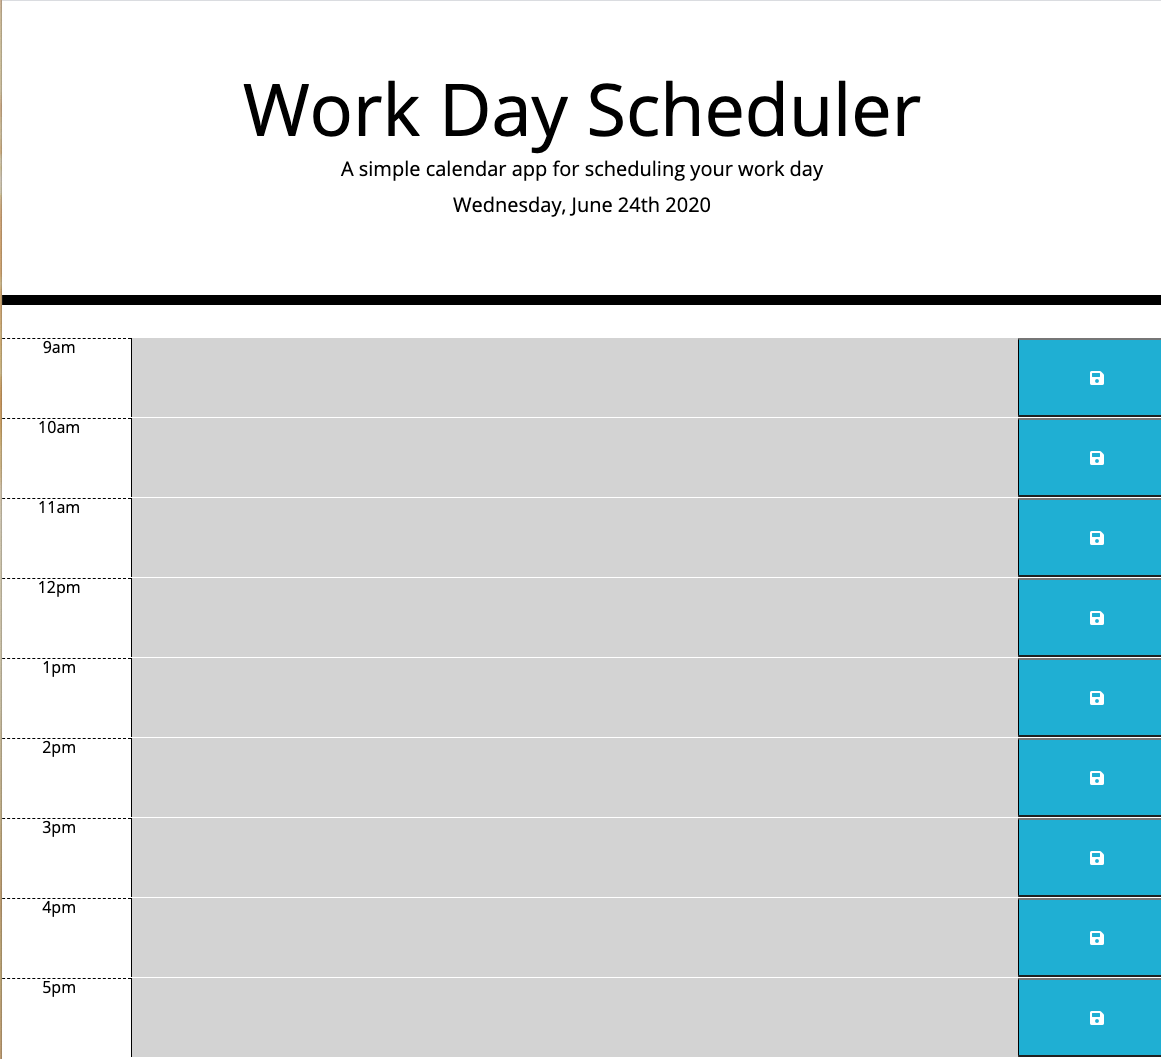
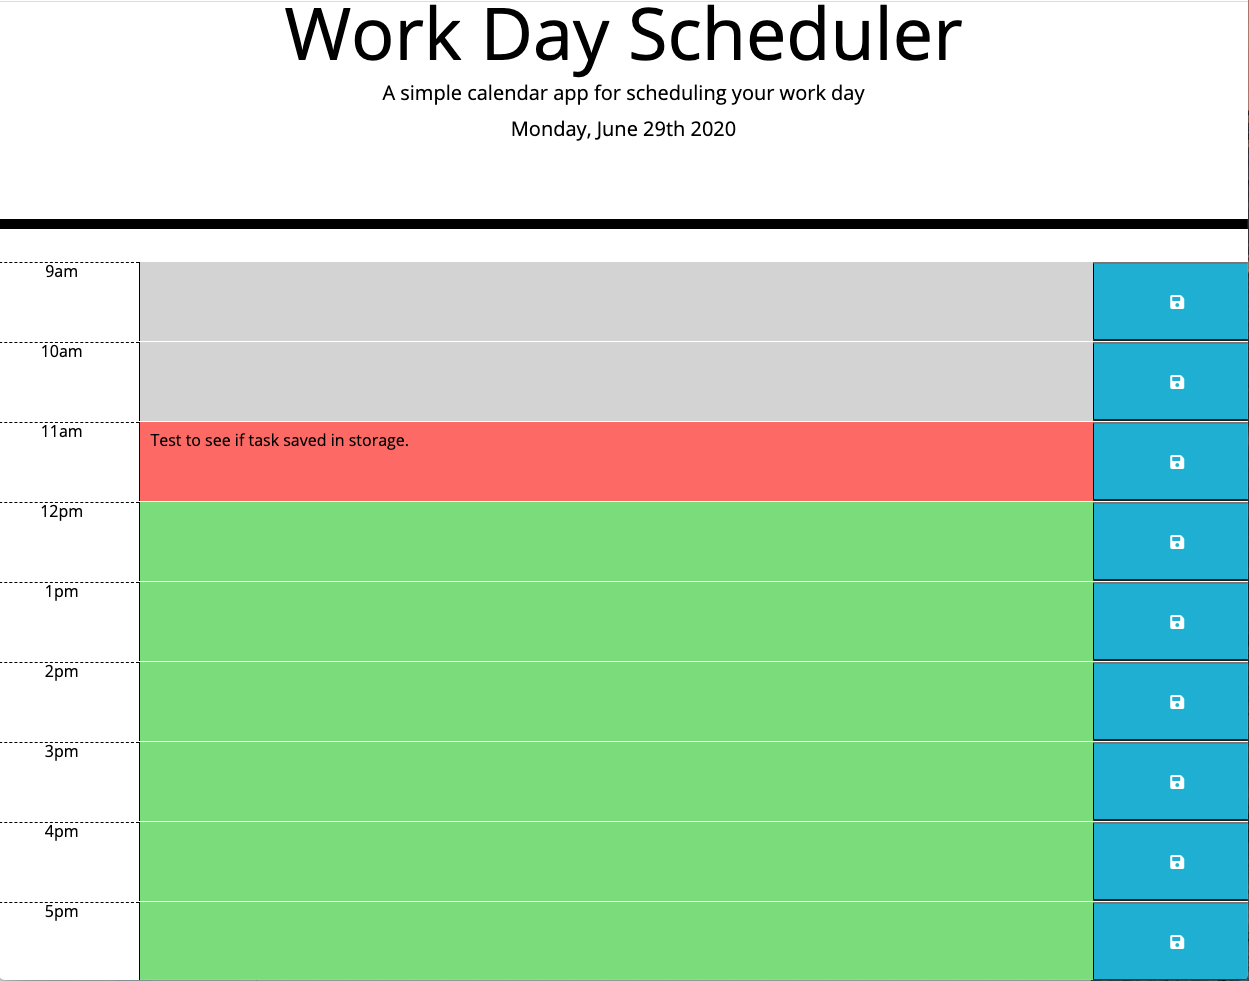
update for loop, screenshot

diff --git a/script.js b/script.js
@@ -5,7 +5,7 @@ $(function () {
     
     // Variable - Timeblocks for Day
     // TODO - Retrieve current hour as a number
-    const hour = moment().format("H A");
+    const hour = parseInt(moment().format("H"));
 
     // DONE - Fill the '#currentDay' container with the currentDay variable
     $("#currentDay").text(currentDay)
@@ -61,44 +61,15 @@ $(function () {
         // TESTING - Contains current time, textarea for input (given the .past, .present, .future as appropriate), and the save button (.saveBtn)
         // add class to textarea element.
         
-        //let hour = moment(timeBlockHour, "H A");
+       
 
        let timeClass = "";
 
-        if (hour > timeBlockHour) timeClass = "future";
+        if (hour < timeBlockHour) timeClass = "future";
         else if(hour === timeBlockHour) timeClass = "present";
         else timeClass = "past";
         
         $("#textarea").addClass("timeClass");
-        
-       
-        //$("#textarea").addClass(timeClass);
-
-        /*let timeClass = function(){
-        
-        if (hour > timeBlockHour) timeClass = "future";
-        $(this).addClass("future");
-        
-        else if(hour === timeBlockHour) timeClass = "present";
-        $(this).addClass("present");
-        
-        else timeClass = "past";
-        $(this).addClass("past");
-        */
-
-    
-        /*if (hour > timeBlockHour) {
-                timeClass = "future";
-                $("#textarea").addClass("future");
-
-                } else if(hour === timeBlockHour) {
-                    timeClass = "present";
-                $("#textarea").addClass("present");
-
-                } else {timeClass = "past";
-                //$("#textarea").addClass(past);
-                }
-               */
 
 
         const timeBlockTemplate = `
